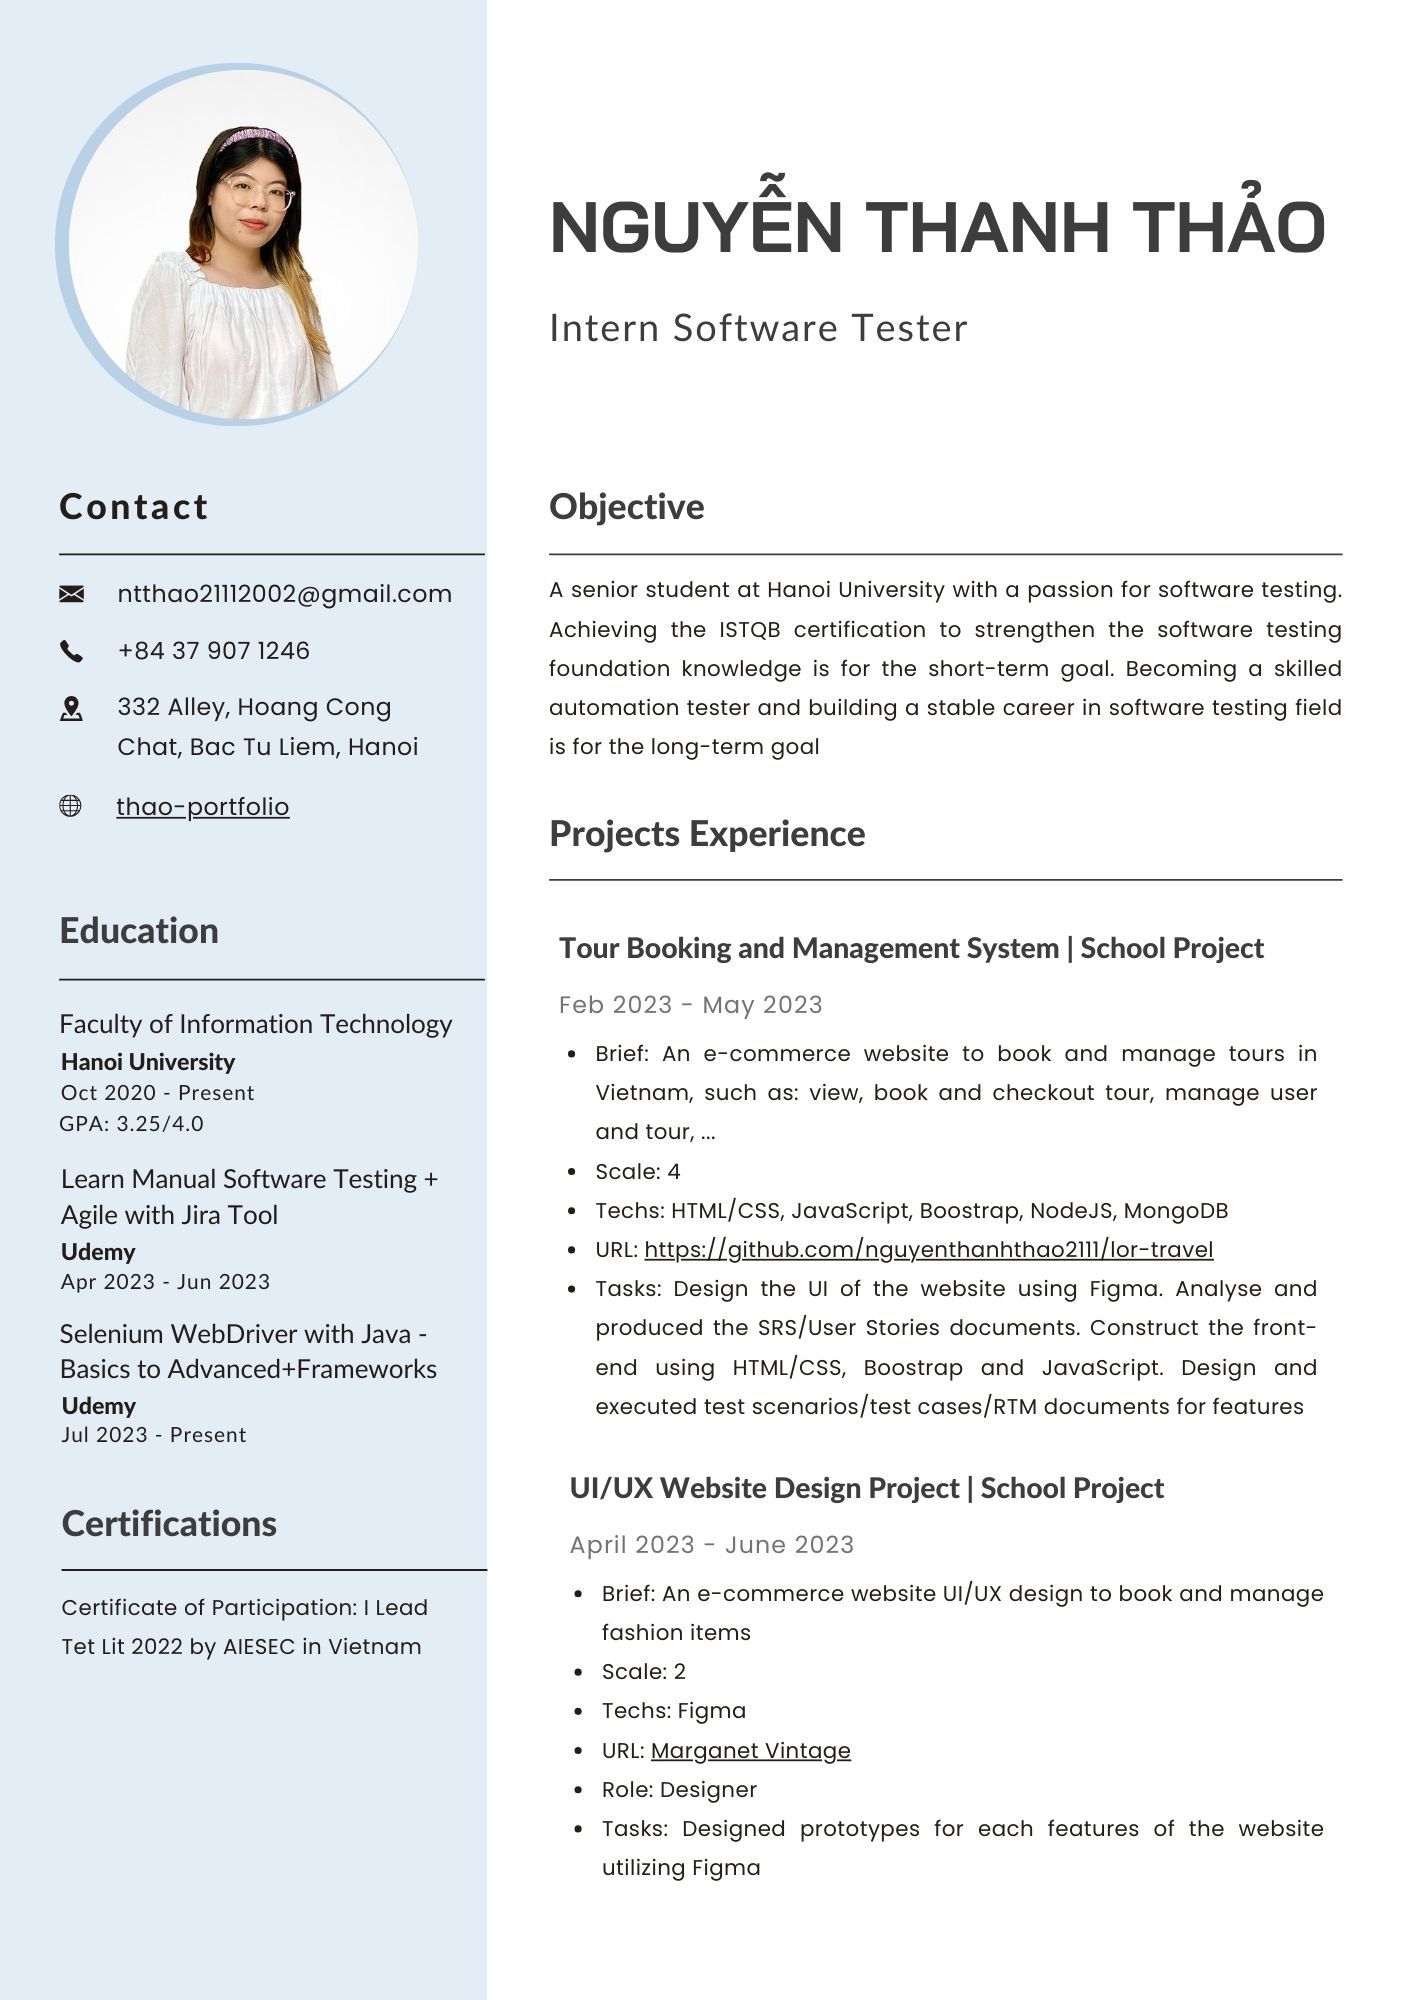
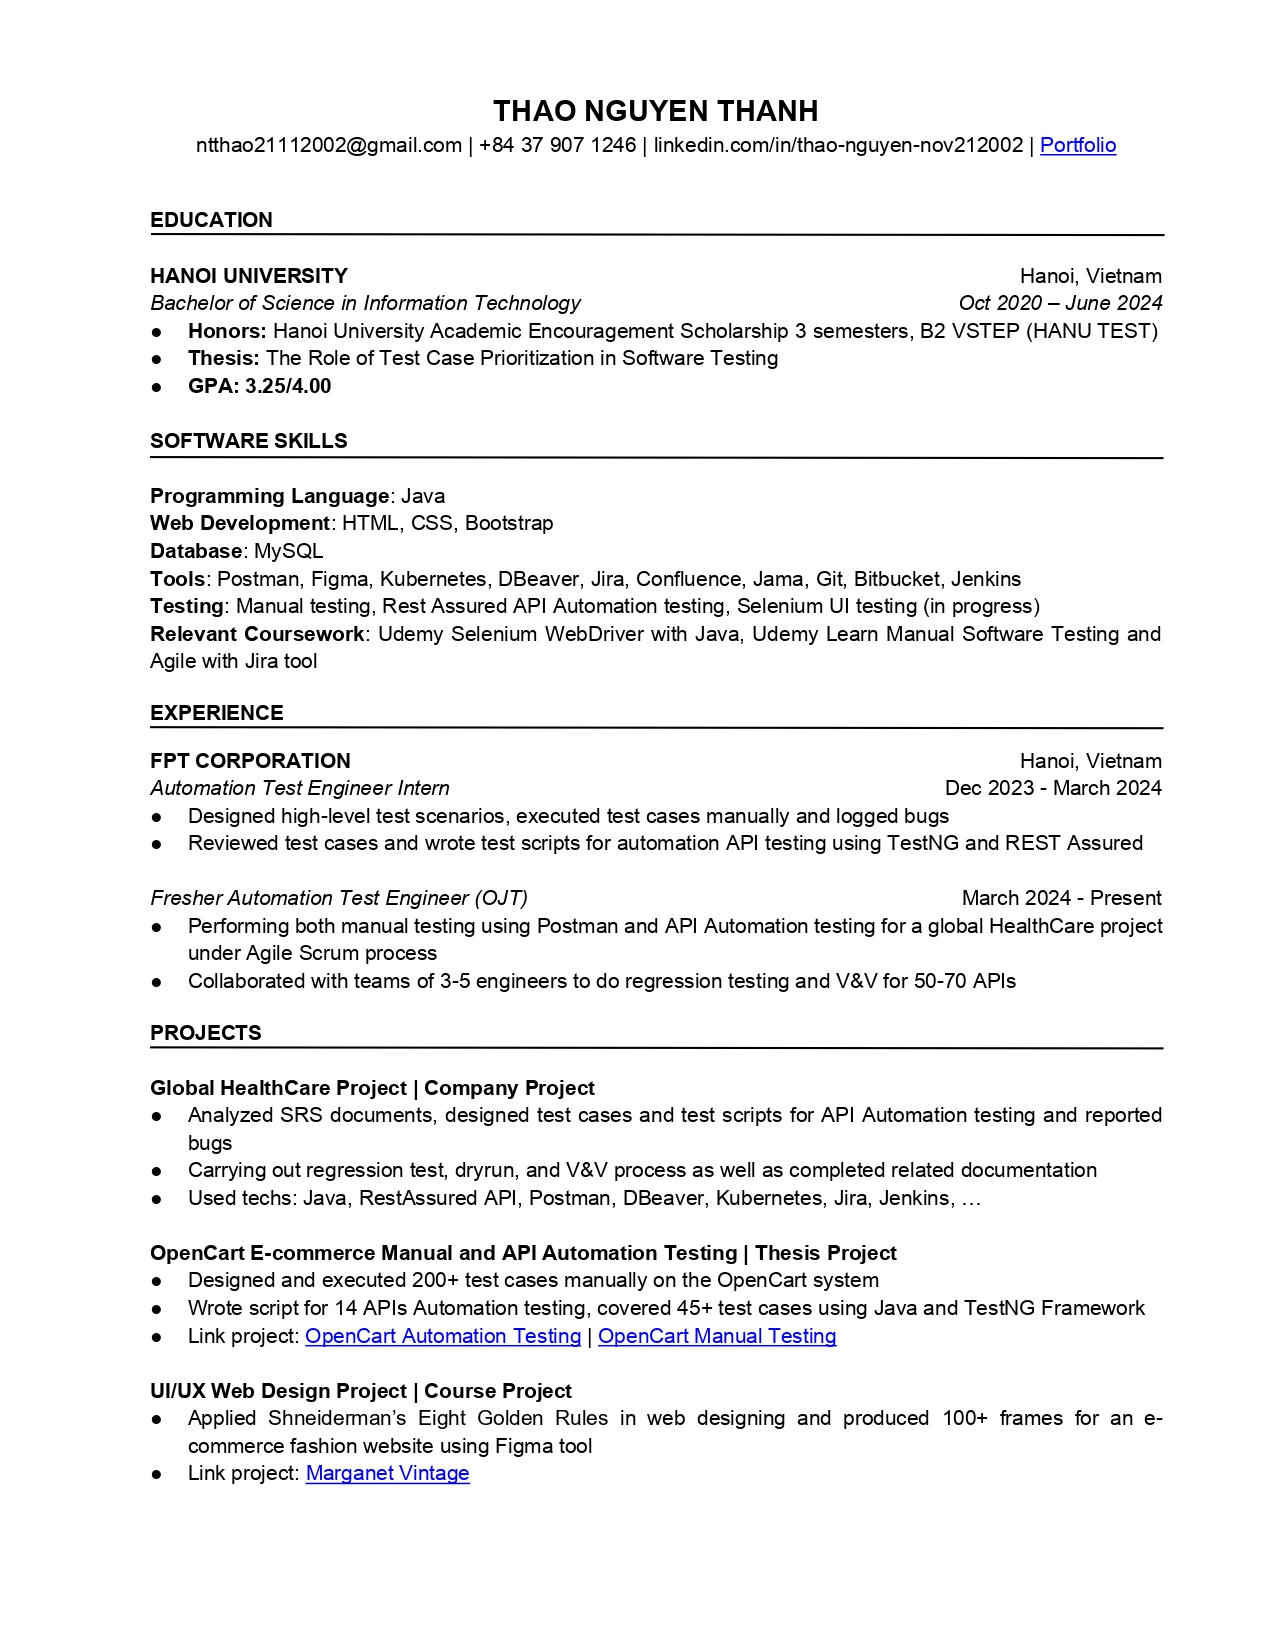
update cv and projects

diff --git a/index.html b/index.html
@@ -97,13 +97,12 @@
                     <div class="col">
                         <div class="card card-item-1">
                             <img src="imgs/lor-travel-cover.png" class="card-img" alt="lor-travel-cover">
-                            <a href="https://github.com/nguyenthanhthao2111/lor-travel" target="_blank">
+                            <a href="https://github.com/nguyenthanhthao2111/opencart-api-automation-testing" target="_blank">
                                 <div class="card-img-overlay">
-                                    <h5 class="card-title">LOR TRAVEL</h5>
-                                    <p class="card-text">A user-friendly website for booking tours in Vietnam, to let
-                                        users view, book, checkout and tracking the booked tours. Travel with
-                                        confidence!</p>
-                                    <p class="card-text">Tag: #NodeJS, #mongodb, #mongoose, #manual_testing</p>
+                                    <h5 class="card-title">OPENCART API AUTOMATION TESTING</h5>
+                                    <p class="card-text"> Graduation thesis project about API Automation Testing on
+                                        OpenCart application, which is an e-commerce web-app selling technology devices</p>
+                                    <p class="card-text">Tag: #API, #AutomationTesting, #Java, #TestNG</p>
                                 </div>
                             </a>
                         </div>
@@ -113,7 +112,7 @@
                             <img src="imgs/opencart-cover.png" class="card-img" alt="opencart-cover">
                             <a href="https://github.com/nguyenthanhthao2111/opencart-manual-testing" target="_blank">
                                 <div class="card-img-overlay">
-                                    <h5 class="card-title">OPENCART </h5>
+                                    <h5 class="card-title">OPENCART MANUAL TESTING</h5>
                                     <p class="card-text">A personal manual testing project on an e-commerce website
                                         OpenCart
                                         for practicing testing skills such as design and execute testcase, write bug
@@ -164,13 +163,13 @@
                 <div class="row row-resume">
                     <div class="col-8">
                         <img id="image1" src="imgs/my-resume-Page1.jpg" style="width: 90%; cursor: pointer;" alt="CV-Page1">
-                        <img id="image2" src="imgs/my-resume-Page2.jpg" style="width: 90%; display: none; cursor: pointer;"
-                            alt="CV-Page2">
+                        <!-- <img id="image2" src="imgs/my-resume-Page2.jpg" style="width: 90%; display: none; cursor: pointer;"
+                            alt="CV-Page2"> -->
                     </div>
                     <div class="col-4">
-                        <p>Click into the image to see the second page</p>
+                        <!-- <p>Click into the image to see the second page</p> -->
                         <p>Check my <a
-                                href="https://drive.google.com/file/d/1kQEvjFYDiwOauz43e2yaoJPi521sz4z6/view?usp=sharing"
+                                href="https://drive.google.com/file/d/14LZv4mLAvjGr7dJuuN0TZMEO6d6IdEJU/view?usp=sharing"
                                 target="_blank"><span style="color: palevioletred;">Resume</span></a> here for details!
                         </p>
                     </div>
@@ -189,7 +188,9 @@
                         <li><i class="fa fa-envelope" style="font-size:48px;color: rgb(255, 195, 195);"></i> Email:
                             ntthao21112002@gmail.com</li>
                         <hr>
-                        <li><i class="fa fa-linkedin-square" style="font-size:48px;color:#0077b5"></i> LinkedIn: Thaont
+                        <li><i class="fa fa-linkedin-square" style="font-size:48px;color:#0077b5"></i> LinkedIn: <a href="https://www.linkedin.com/in/thao-nguyen-nov212002/">
+                            Thao Nguyen
+                        </a>
                         </li>
                         <hr>
                     </ul>

diff --git a/script.js b/script.js
@@ -4,15 +4,15 @@ const image1 = document.getElementById("image1");
 const image2 = document.getElementById("image2");
 
 // Add click event listeners to each image
-image1.addEventListener("click", () => {
-    image1.style.display = "none";
-    image2.style.display = "block";
-});
+// image1.addEventListener("click", () => {
+//     image1.style.display = "none";
+//     image2.style.display = "block";
+// });
 
-image2.addEventListener("click", () => {
-    image2.style.display = "none";
-    image1.style.display = "block";
-});
+// image2.addEventListener("click", () => {
+//     image2.style.display = "none";
+//     image1.style.display = "block";
+// });
 
 //smooth scroll
 const links = document.querySelectorAll('.navbar a');
